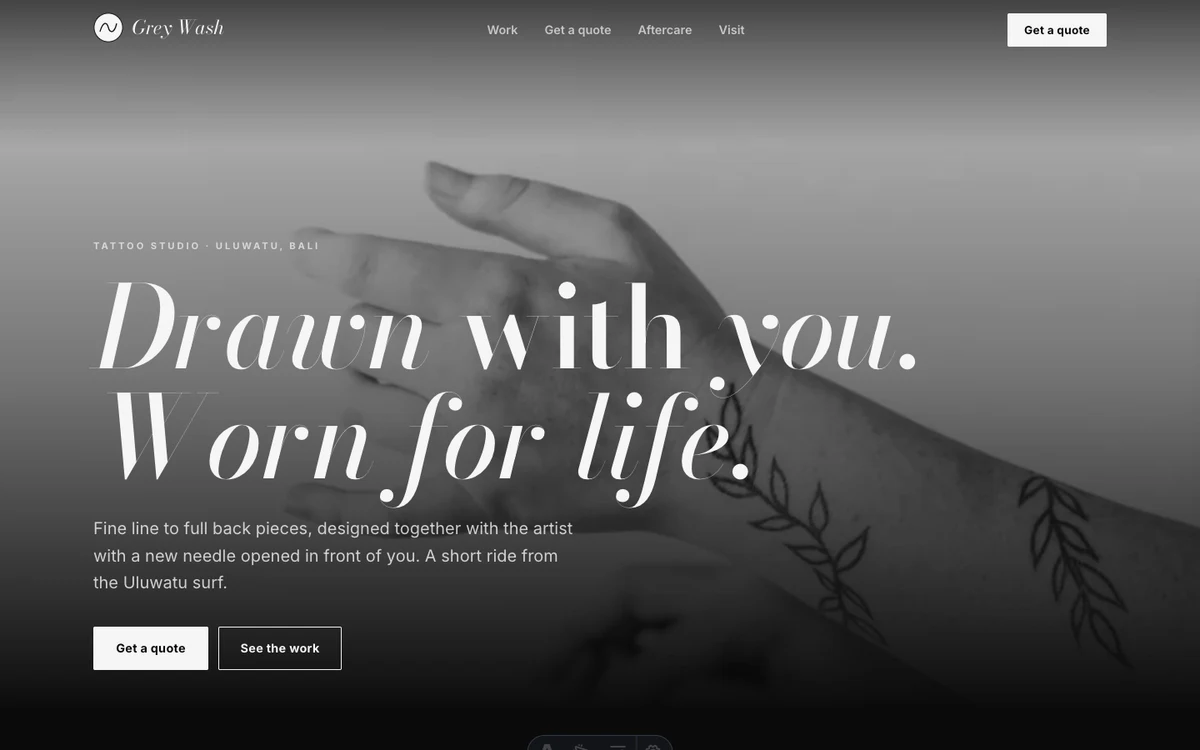
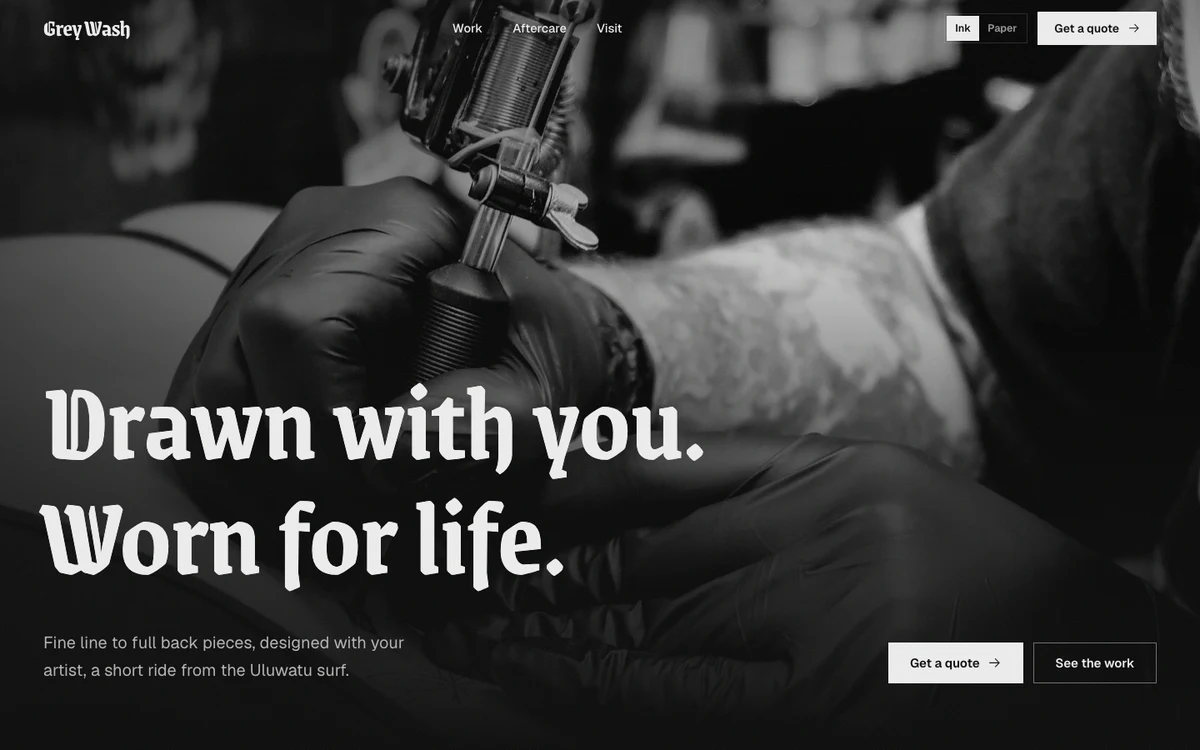
Link Grey Wash Tattoo to its live demo
The Abstract Ink concept's own deployment is now a neutral demo (every
real detail replaced by placeholders in its source, real version kept on
an `outreach` branch), so the card can link to it. It moves from
"Concept" to "Demo", with screenshots and copy for the current
blackletter design.

diff --git a/src/data.js b/src/data.js
@@ -135,11 +135,11 @@ export const PROJECTS = [
     place: 'Demo',
     kind: 'demo',
     year: '2026',
-    live: null,
-    private: true, // anonymised concept, see the note above
-    line: 'Black and grey, an editorial serif, every photo in mono.',
+    // Was an anonymised concept; the deployment itself is now a neutral demo (placeholders in the source), so it can link.
+    live: 'https://abstract-ink.vercel.app/',
+    line: 'Blackletter and black-and-grey, every photo in mono.',
     story:
-      'A calm, editorial site for a fine-line studio: a big serif headline, a portfolio you can filter by style, a quote form that asks the right questions and aftercare written in plain words. Several pages, built with Astro.',
+      'A black-and-grey studio site with a blackletter name: numbers that count up, a portfolio filtered by style, a quote builder that turns a spot on the body into one WhatsApp message, and aftercare in plain words. Several pages, built with Astro.',
     stack: ['Astro', 'React islands', 'Tailwind'],
   },
   {
